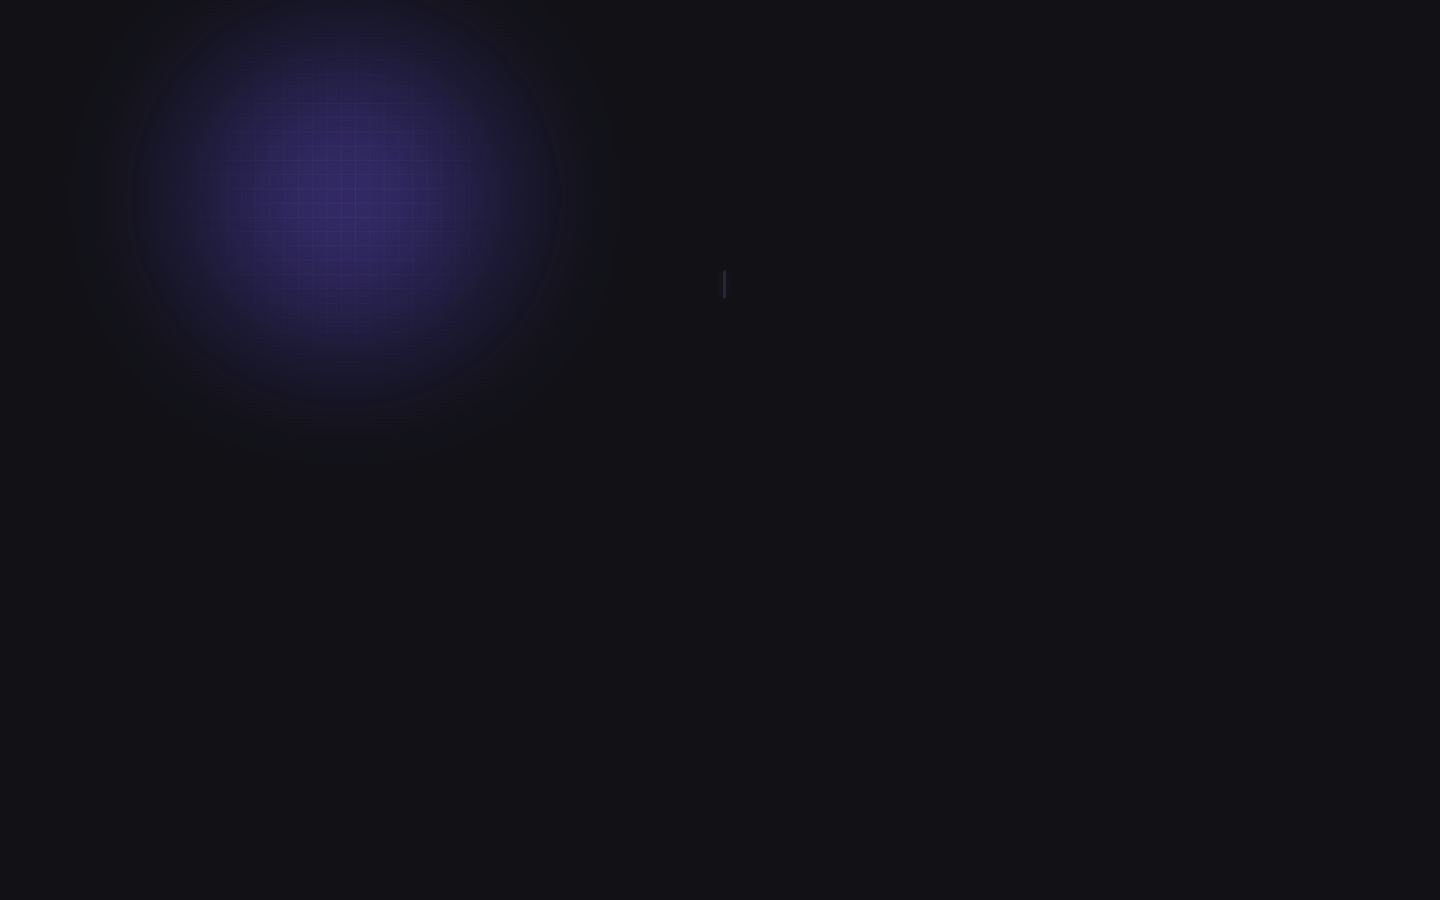
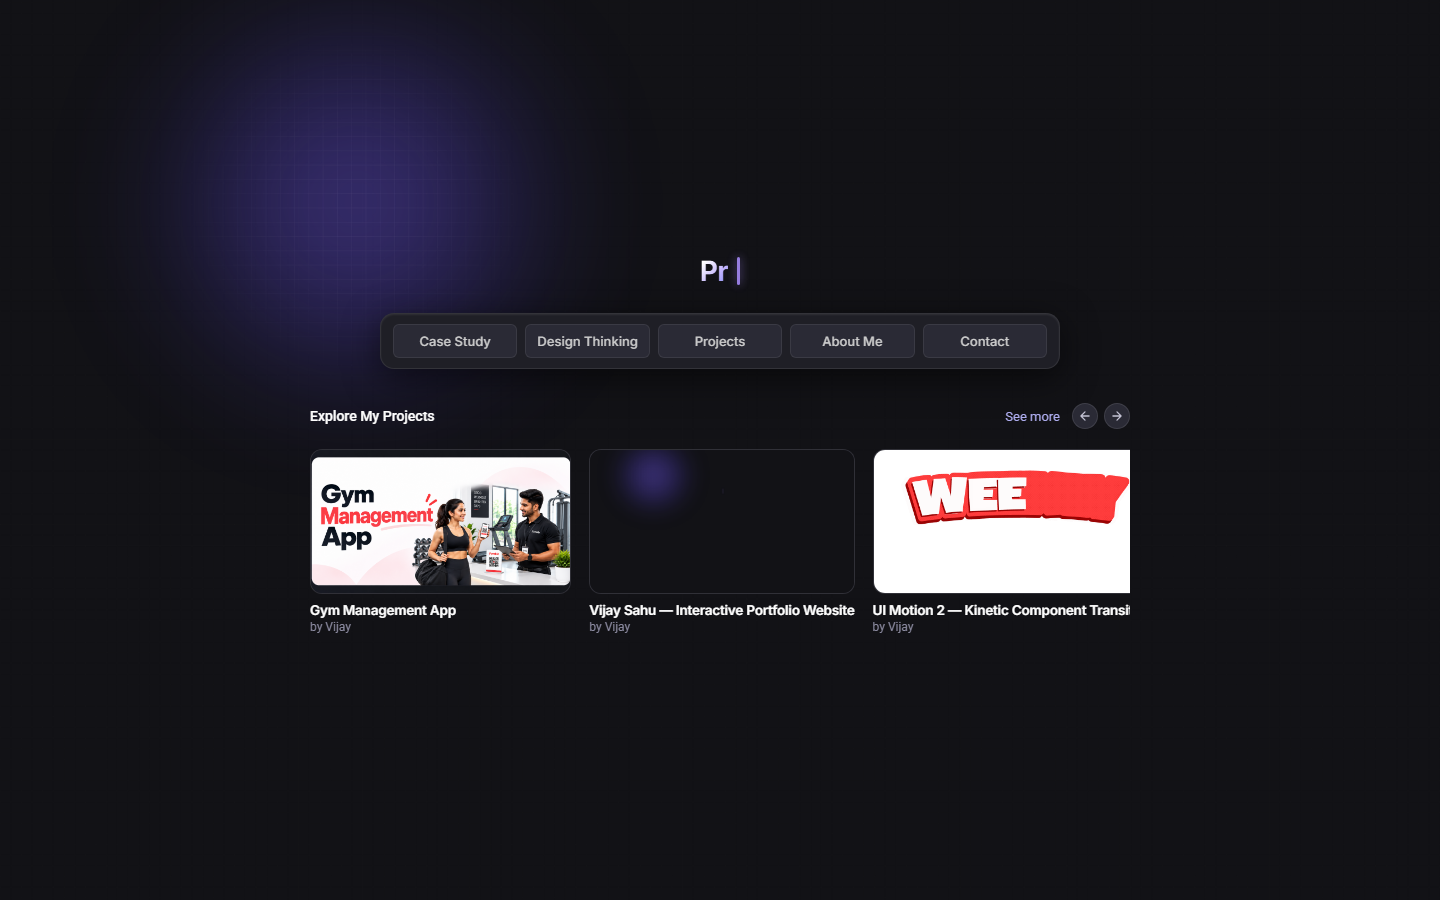
Update portfolio screenshot, dynamic live website link, and live badge in Web Dev

diff --git a/src/Projects.css b/src/Projects.css
@@ -244,12 +244,38 @@
   color: rgba(255, 255, 255, 0.85);
 }
 
+.project-card-title-row {
+  display: flex;
+  align-items: center;
+  justify-content: space-between;
+  gap: 8px;
+  width: 100%;
+}
+
 .project-card-title {
   color: #F2F2F2;
   font-size: 13px;
   font-family: Inter, sans-serif;
   font-weight: 400;
   padding-left: 2px;
+  flex: 1;
+  white-space: nowrap;
+  overflow: hidden;
+  text-overflow: ellipsis;
+}
+
+.project-live-indicator {
+  font-size: 10px;
+  font-weight: 700;
+  letter-spacing: 0.05em;
+  color: #34d399;
+  background: rgba(16, 185, 129, 0.14);
+  border: 1px solid rgba(16, 185, 129, 0.35);
+  padding: 2px 7px;
+  border-radius: 999px;
+  white-space: nowrap;
+  flex-shrink: 0;
+  line-height: 1.2;
 }
 
 /* ==========================================================================

diff --git a/src/Projects.jsx b/src/Projects.jsx
@@ -210,7 +210,12 @@ export default function Projects({
                       </div>
                     )}
                   </div>
-                  <div className="project-card-title">{proj.title}</div>
+                  <div className="project-card-title-row">
+                    <span className="project-card-title">{proj.title}</span>
+                    {proj.liveUrl && (
+                      <span className="project-live-indicator" title="Live Project Link">LIVE ↗</span>
+                    )}
+                  </div>
                 </div>
               ))}
             </div>

diff --git a/src/ProjectDetail.jsx b/src/ProjectDetail.jsx
@@ -628,7 +628,9 @@ export default function ProjectDetail({ project, categoryLabel, onBack, onNaviga
                   className="web-live-launch-btn"
                 >
                   <span className="live-pulse-dot" />
-                  <span>Visit Live Website • Fymble.app ↗</span>
+                  <span>
+                    Visit Live Website • {project.liveUrl ? project.liveUrl.replace(/^https?:\/\//, '').replace(/\/$/, '') : 'Open Link'} ↗
+                  </span>
                 </a>
               </div>
             )}
